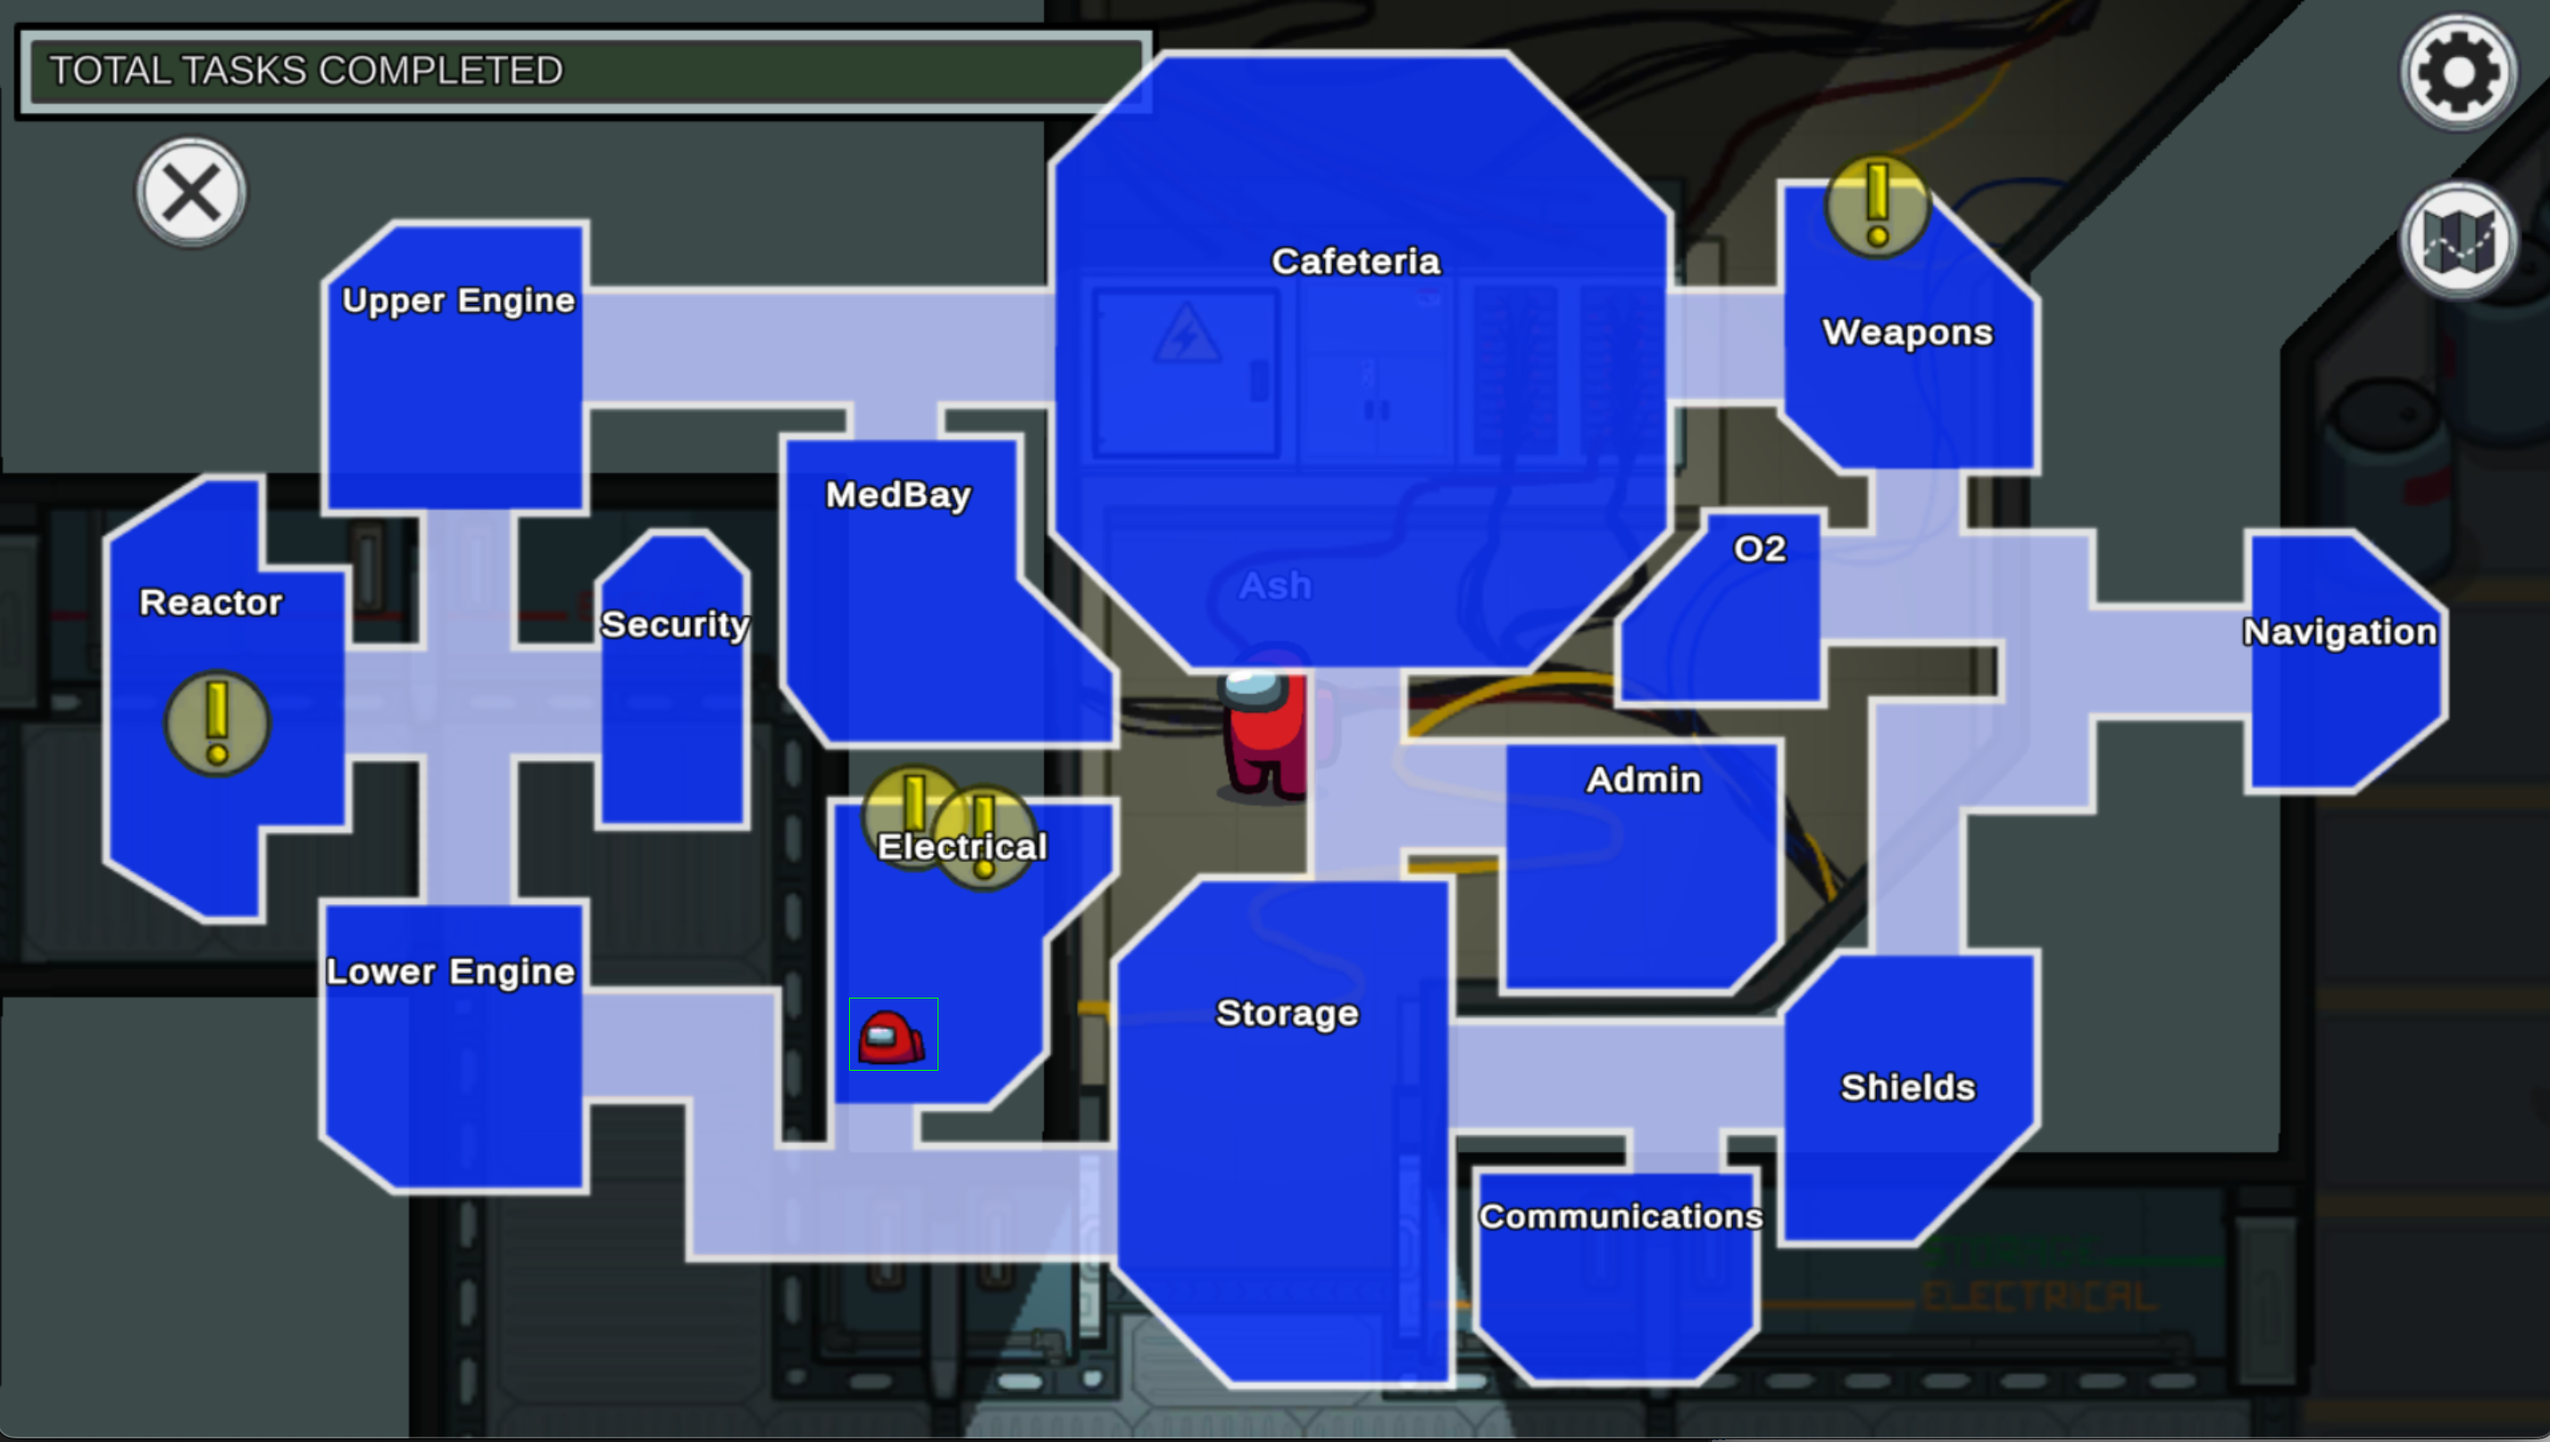
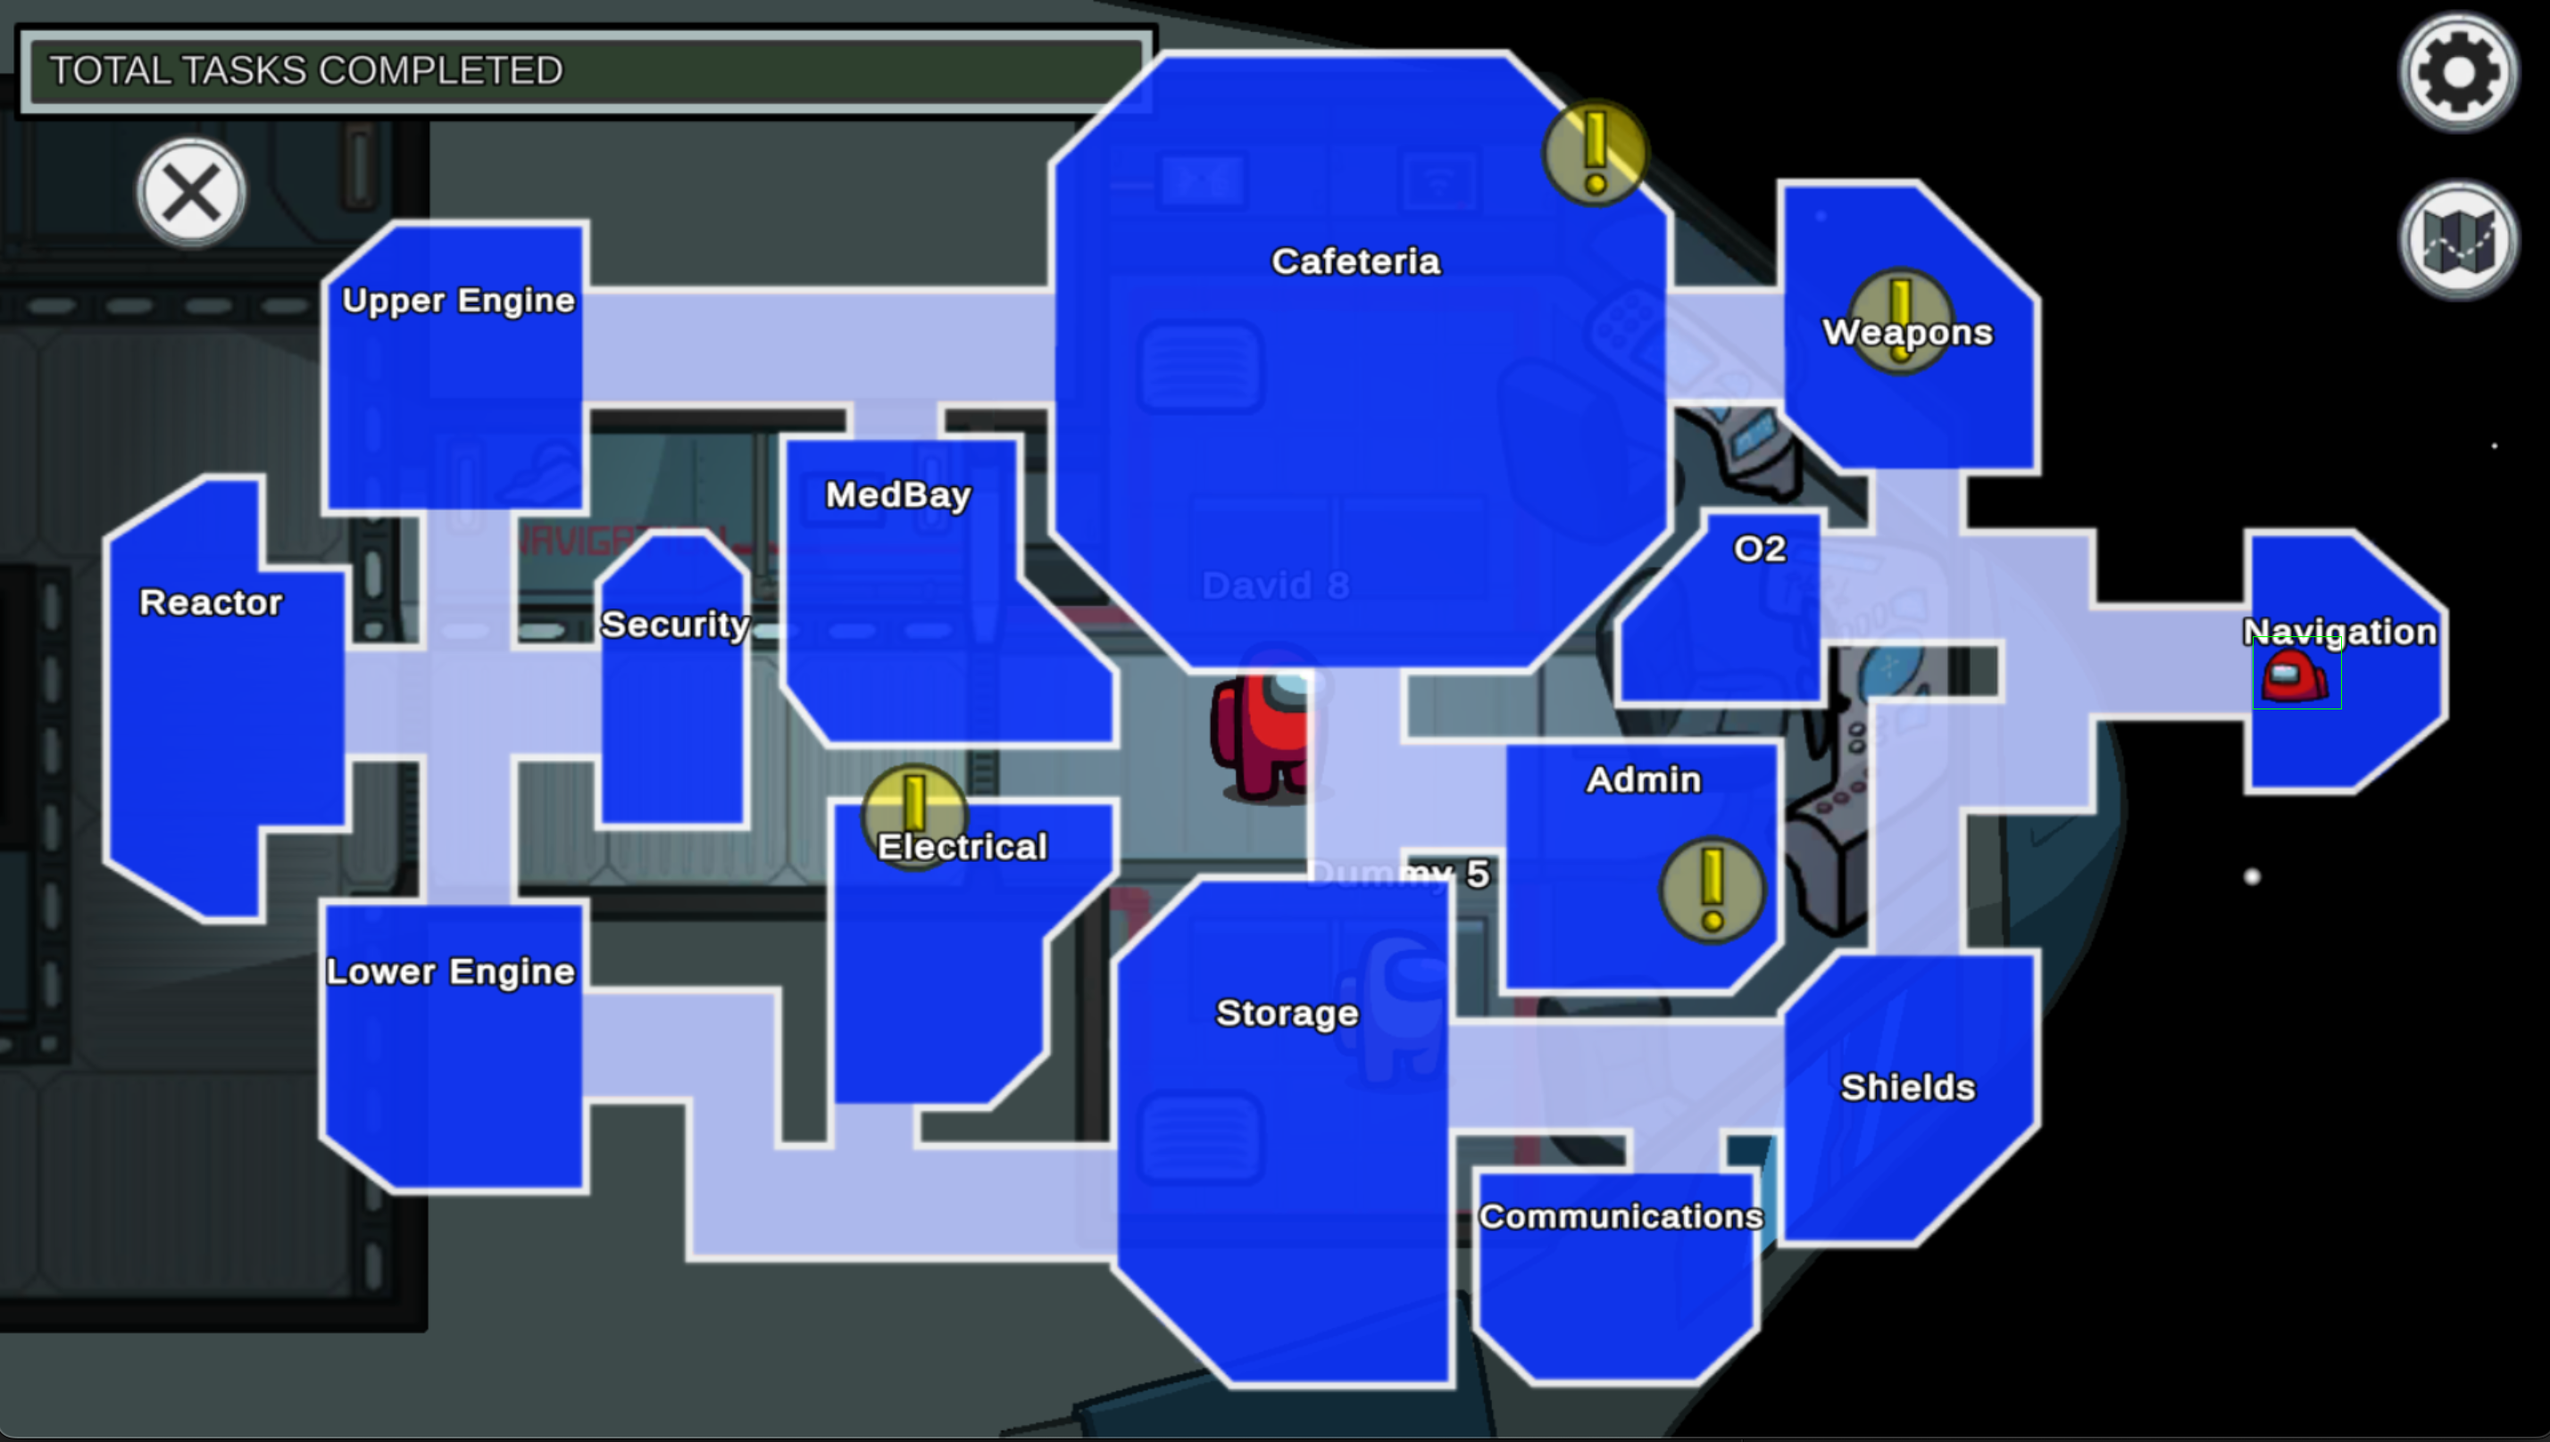
New Code

diff --git a/main.py b/main.py
@@ -136,33 +136,44 @@ if __name__ == '__main__':
     print("Now the location is: " + str(current_location))
     #
     # TODO implement better task system
-    task = [[6, 0], [11, 0], [1,0]]
-    print(task[0][0])
-    print(len(task))
+    task = [[13, 1], [10, 0]]
+    steps = 0
     while (len(task)) > 0:
         print("Length of the task list: " + str(len(task)))
 
         waypoints, destination_room, kill = navigation.navigate(current_room, task[0])
         print("Current Room: " + str(map_info.convert_room_id(current_room)))
         for i in range(len(waypoints)):
+            steps += 1
+            print("Steps are: " + str(steps))
             target_location = waypoints[i]
-            print("New Target for Waypoint #" + str(i) + " is: " + str(waypoints[i]) + " in " +str(map_info.convert_room_id(destination_room))+ " and we are at " + str(
+            print("New Target for Waypoint #" + str(i) + " is: " + str(waypoints[i]) + " in " + str(
+                map_info.convert_room_id(destination_room)) + " and we are at " + str(
                 current_location) + " in " + str(map_info.convert_room_id(current_room)))
             vector_x, vector_y, distance = calculate_vector(current_location, target_location)
             move(vector_x, vector_y, distance)
             current_location = target_location
             current_room = destination_room
-        if kill:
-            # tasks.trigger_task(task)
-            task.pop(0)
 
-            # if (i % 9) == 0 and i > 0:
-            #     location_info = ping_location()
-            #     current_location = location_info[0]
-            #     current_room = location_info[1]
+            if (steps % 9) == 0 and steps > 0:
+                location_info = ping_location()
+                current_location = location_info[0]
+                current_room = location_info[1]
             # else:
             #     current_location = waypoints[i]
-            # print("Current Room: " + str(map_info.convert_room_id(current_room)))
+            print("Current Room: " + str(map_info.convert_room_id(current_room)))
+
+        if kill:
+            print("Going to Task")
+            target_location = tasks.task_locator(task[0])
+            vector_x, vector_y, distance = calculate_vector(current_location, target_location)
+            move(vector_x, vector_y, distance)
+            current_location = target_location
+            current_room = destination_room
+
+            tasks.trigger_task(task[0])
+            task.pop(0)
+            kill = False
 
     #     while abs(current_location[0] - target_location[0]) > 50:
     #         location_info  = ping_location()

diff --git a/tasks.py b/tasks.py
@@ -2,6 +2,16 @@ import pyautogui
 import time
 
 
+def task_locator(task):
+    if task[0] == 13:
+        if task[1] == 1:
+            return (1901, 671)
+    if task[0] == 10:
+        print("In Nav")
+        if task[1] == 1:
+            return (1901, 671)
+
+
 def divert_power():
     time.sleep(0.5)
     for i in [645, 715, 788, 860, 935, 1000, 1075, 1150]:
@@ -15,11 +25,23 @@ def accept_power():
     pyautogui.click(900, 585, clicks=1)
 
 
+def empty_trash():
+    print("Empty Trash")
+    time.sleep(0.5)
+    pyautogui.mouseDown(1170, 492)
+    pyautogui.moveTo(1170, 686, 1)
+    time.sleep(2)
+    pyautogui.mouseUp(0, 0)
+    print("Task Complete")
+
+
 def trigger_task(task):
-    print(task)
     pyautogui.click(1500, 870, clicks=1)
 
     if task[0] == 0:
         divert_power()
+    elif task[0] == 13:
+        if task[1] == 1:
+            empty_trash()
     elif task == "accept_power":
         accept_power()
